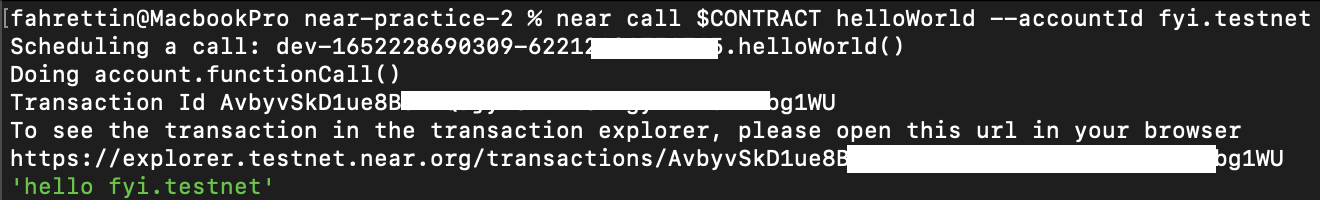
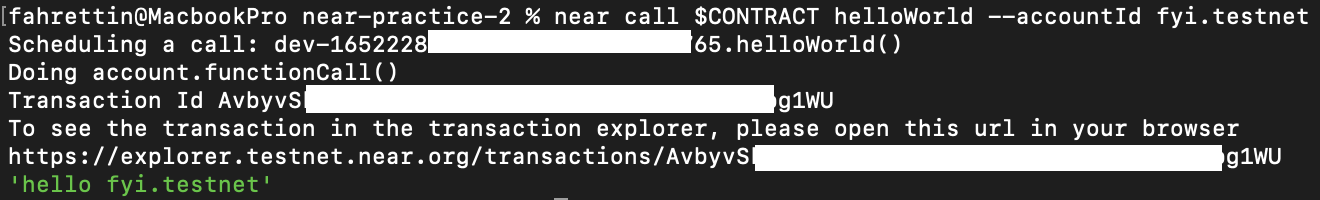
image url replaced

diff --git a/scripts/README.md b/scripts/README.md
@@ -1,3 +1,3 @@
 ### Result
 
-![Result](https://github.com/fyilmazy/near-practice-1/blob/main/2.png?raw=true)
+![Result](https://github.com/fyilmazy/near-practice-2/blob/main/2.png?raw=true)
